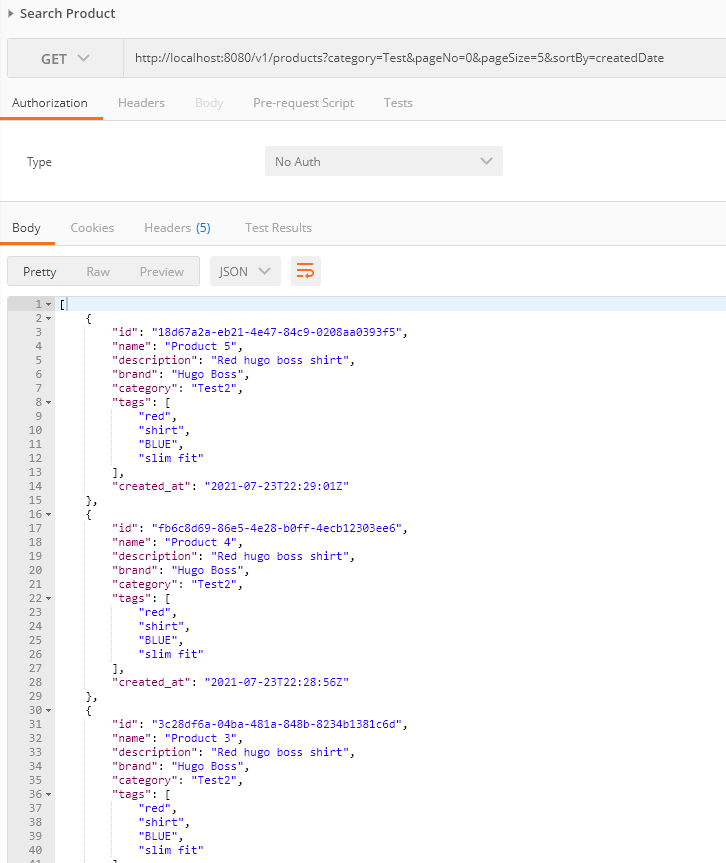
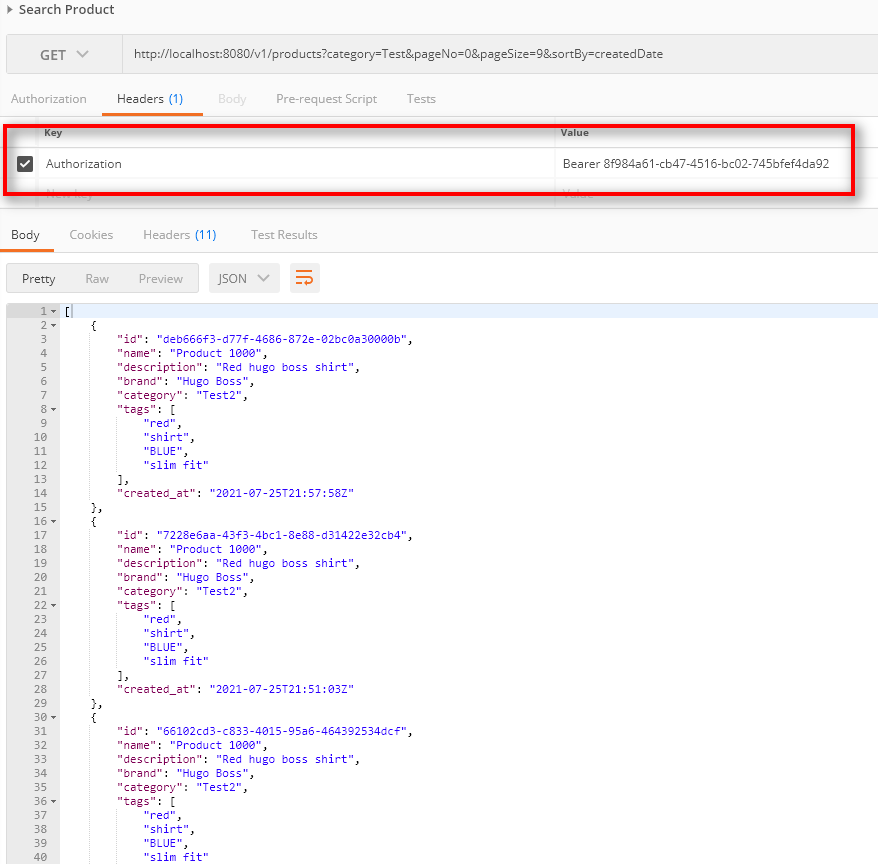
Add authentication/authorization Spring Security and OAuth2

diff --git a/simple-product-api/src/main/resources/static/index.html b/simple-product-api/src/main/resources/static/index.html
@@ -5,7 +5,15 @@
     <title>Centric Simple API</title>
 </head>
 <body>
+
 <h1>Centric Simple REST API</h1>
+
+<h2>Technologies</h2>
+- Java 8+, Spring Boot Rest API<br/>
+- Database: H2 In-Memory Database<br/>
+- Authentication/Authorization: Spring Security + OAuth2<br/>
+- API Doc: Swagger 2.0
+
 
 <h2>H2 Database</h2>
 URL: http://localhost:8080/h2-console/ <br/>
@@ -20,8 +28,35 @@ Password:<br/>
 <strong>Linux</strong>: ./mvnw spring-boot:run
 
 
+<h2>OAuth2 Authentication/Authorization diagram</h2>
+<img src="images/oauth2.JPG" width="800"/><br/>
+
+<h2>Generate OAuth2 Access-Token</h2>
+<strong>Step 1:</strong><br/>
+URL: ://localhost:8080/oauth/token<br/>
+Authentication: Basic Auth<br/>
+Username: hantruong<br/>
+Password: password<br/>
+
+<img src="images/generate1.png" width="800"/><br/>
+<strong>Step 2:</strong> <br/>
+Body:<br/>
+username: hantruong</br>
+password: 123456<br/>
+grant_type: password<br/>
+<img src="images/generate2.png" width="800"/><br/>
+
+Access_token is generated as above and we will use this access_token to authorize the API Request.
 <h2>Add New Product</h2>
-POST - http://localhost:8080/v1/products?lang=fr
+
+
+<img src="images/add0.png" width="800"/><br/>
+<img src="images/add.png" width="800"/><br/>
+
+POST - http://localhost:8080/v1/products?lang=fr <br/>
+Authorization: Bearer + access_token
+
+
 <h3>Request Body</h3>
 <pre><code>
 {
@@ -54,7 +89,7 @@ POST - http://localhost:8080/v1/products?lang=fr
     "created_at": "2021-07-23T22:14:57Z"
 }
 </code></pre>
-<img src="images/add.png" width="800"/>
+
 
 <h2>Search Product by Category Name</h2>
 GET - http://localhost:8080/v1/products?category=Test&pageNo=0&pageSize=5&sortBy=createdDate&lang=en
@@ -156,5 +191,6 @@ GET - http://localhost:8080/v1/products?category=Test&pageNo=0&pageSize=5&sortBy
 
     <h1>Author</h1>
     <strong>Han Truong</strong> - <a href="https://www.hantruong.us" target="_blank">https://www.hantruong.us</a>
+
 </body>
 </html>

diff --git a/simple-product-api/src/main/java/com/centricsoftware/simpleproductapi/oauth2/AuthorizationServerConfiguration.java b/simple-product-api/src/main/java/com/centricsoftware/simpleproductapi/oauth2/AuthorizationServerConfiguration.java
@@ -1,0 +1,64 @@
+package com.centricsoftware.simpleproductapi.oauth2;
+
+import org.springframework.beans.factory.annotation.Autowired;
+import org.springframework.beans.factory.annotation.Value;
+import org.springframework.context.annotation.Configuration;
+import org.springframework.security.authentication.AuthenticationManager;
+import org.springframework.security.crypto.bcrypt.BCryptPasswordEncoder;
+import org.springframework.security.oauth2.config.annotation.configurers.ClientDetailsServiceConfigurer;
+import org.springframework.security.oauth2.config.annotation.web.configuration.AuthorizationServerConfigurerAdapter;
+import org.springframework.security.oauth2.config.annotation.web.configuration.EnableAuthorizationServer;
+import org.springframework.security.oauth2.config.annotation.web.configurers.AuthorizationServerEndpointsConfigurer;
+import org.springframework.security.oauth2.provider.token.TokenStore;
+
+/**
+ * @author hantruong
+ */
+@Configuration
+@EnableAuthorizationServer
+public class AuthorizationServerConfiguration extends AuthorizationServerConfigurerAdapter {
+
+    static final String AUTHORIZATION_CODE = "authorization_code";
+    static final String REFRESH_TOKEN = "refresh_token";
+    static final String IMPLICIT = "implicit";
+    static final String SCOPE_READ = "read";
+    static final String SCOPE_WRITE = "write";
+    static final String TRUST = "trust";
+    static final int ACCESS_TOKEN_VALIDITY_SECONDS = 8 * 60 * 60;
+    static final int REFRESH_TOKEN_VALIDITY_SECONDS = 8 * 60 * 60;
+
+    @Value("${server.client.oauth.client.id}")
+    private String clientId;
+    @Value("${server.client.oauth.client.secret}")
+    private String clientSecret;
+    @Value("${server.client.oauth.grant.password.type}")
+    private String grantTypePassword;
+
+    @Autowired
+    private TokenStore tokenStore;
+
+    @Autowired
+    private AuthenticationManager authenticationManager;
+
+    @Autowired
+    private BCryptPasswordEncoder passwordEncoder;
+
+    @Override
+    public void configure(ClientDetailsServiceConfigurer configurer) throws Exception {
+
+        configurer
+                .inMemory()
+                .withClient(clientId)
+                .secret(passwordEncoder.encode(clientSecret))
+                .authorizedGrantTypes(grantTypePassword, AUTHORIZATION_CODE, REFRESH_TOKEN, IMPLICIT)
+                .scopes(SCOPE_READ, SCOPE_WRITE, TRUST)
+                .accessTokenValiditySeconds(ACCESS_TOKEN_VALIDITY_SECONDS).
+                refreshTokenValiditySeconds(REFRESH_TOKEN_VALIDITY_SECONDS);
+    }
+
+    @Override
+    public void configure(AuthorizationServerEndpointsConfigurer endpoints) throws Exception {
+        endpoints.tokenStore(tokenStore)
+                .authenticationManager(authenticationManager);
+    }
+}

diff --git a/simple-product-api/src/main/java/com/centricsoftware/simpleproductapi/oauth2/SecurityConfiguration.java b/simple-product-api/src/main/java/com/centricsoftware/simpleproductapi/oauth2/SecurityConfiguration.java
@@ -1,0 +1,58 @@
+package com.centricsoftware.simpleproductapi.oauth2;
+
+import org.springframework.beans.factory.annotation.Autowired;
+import org.springframework.beans.factory.annotation.Value;
+import org.springframework.context.annotation.Bean;
+import org.springframework.context.annotation.Configuration;
+import org.springframework.security.authentication.AuthenticationManager;
+import org.springframework.security.config.annotation.authentication.builders.AuthenticationManagerBuilder;
+import org.springframework.security.config.annotation.method.configuration.EnableGlobalMethodSecurity;
+import org.springframework.security.config.annotation.web.configuration.EnableWebSecurity;
+import org.springframework.security.config.annotation.web.configuration.WebSecurityConfigurerAdapter;
+import org.springframework.security.crypto.bcrypt.BCryptPasswordEncoder;
+import org.springframework.security.oauth2.provider.token.TokenStore;
+import org.springframework.security.oauth2.provider.token.store.InMemoryTokenStore;
+
+/**
+ * @author hantruong
+ */
+@Configuration
+@EnableWebSecurity
+@EnableGlobalMethodSecurity(prePostEnabled = true)
+public class SecurityConfiguration extends WebSecurityConfigurerAdapter {
+
+    @Value("${user.oauth.user.username}")
+    private String username;
+
+    @Value("${user.oauth.user.password}")
+    private String password;
+
+    public static void main(String[] args) {
+        BCryptPasswordEncoder passwordEncoder = new BCryptPasswordEncoder();
+        String encodedPassword = passwordEncoder.encode("123456");
+
+        System.out.println(encodedPassword);
+    }
+
+    @Override
+    @Bean
+    public AuthenticationManager authenticationManagerBean() throws Exception {
+        return super.authenticationManagerBean();
+    }
+
+    @Autowired
+    public void globalUserDetails(AuthenticationManagerBuilder auth) throws Exception {
+        auth.inMemoryAuthentication().passwordEncoder(passwordEncoder())
+                .withUser(username).password(passwordEncoder().encode(password)).roles("ADMIN").and().passwordEncoder(passwordEncoder());
+    }
+
+    @Bean
+    public TokenStore tokenStore() {
+        return new InMemoryTokenStore();
+    }
+
+    @Bean
+    public BCryptPasswordEncoder passwordEncoder() {
+        return new BCryptPasswordEncoder();
+    }
+}

diff --git a/simple-product-api/src/main/java/com/centricsoftware/simpleproductapi/oauth2/ResourceServerConfiguration.java b/simple-product-api/src/main/java/com/centricsoftware/simpleproductapi/oauth2/ResourceServerConfiguration.java
@@ -1,0 +1,31 @@
+package com.centricsoftware.simpleproductapi.oauth2;
+import org.springframework.context.annotation.Configuration;
+import org.springframework.security.config.annotation.web.builders.HttpSecurity;
+import org.springframework.security.oauth2.config.annotation.web.configuration.EnableResourceServer;
+import org.springframework.security.oauth2.config.annotation.web.configuration.ResourceServerConfigurerAdapter;
+import org.springframework.security.oauth2.config.annotation.web.configurers.ResourceServerSecurityConfigurer;
+import org.springframework.security.oauth2.provider.error.OAuth2AccessDeniedHandler;
+
+/**
+ * @author hantruong
+ */
+@Configuration
+@EnableResourceServer
+public class ResourceServerConfiguration extends ResourceServerConfigurerAdapter {
+
+    private static final String RESOURCE_ID = "resource_id";
+
+    @Override
+    public void configure(ResourceServerSecurityConfigurer resources) {
+        resources.resourceId(RESOURCE_ID).stateless(false);
+    }
+
+    @Override
+    public void configure(HttpSecurity http) throws Exception {
+        http.
+                anonymous().disable()
+                .authorizeRequests()
+                .antMatchers("/v1/products/**").access("hasRole('ADMIN')")
+                .and().exceptionHandling().accessDeniedHandler(new OAuth2AccessDeniedHandler());
+    }
+}

diff --git a/README.md b/README.md
@@ -1,5 +1,12 @@
 <h1>Centric Simple REST API</h1>
 
+<h2>Technologies</h2>
+- Java 8+, Spring Boot Rest API<br/>
+- Database: H2 In-Memory Database<br/>
+- Authentication/Authorization: Spring Security + OAuth2<br/>
+- API Doc: Swagger 2.0
+
+
 <h2>H2 Database</h2>
 URL: http://localhost:8080/h2-console/ <br/>
 JDBC URL: jdbc:h2:mem:centric<br/>
@@ -13,8 +20,36 @@ Password:<br/>
 <strong>Linux</strong>: ./mvnw spring-boot:run
 
 
+<h2>OAuth2 Authentication/Authorization diagram</h2>
+<img src="simple-product-api/src/main/resources/static/images/oauth2.JPG" width="800"/><br/>
+
+<h2>Generate OAuth2 Access-Token</h2>
+<strong>Step 1:</strong><br/>
+URL: ://localhost:8080/oauth/token<br/>
+Authentication: Basic Auth<br/>
+Username: hantruong<br/>
+Password: password<br/>
+ 
+<img src="simple-product-api/src/main/resources/static/images/generate1.png" width="800"/><br/>
+<strong>Step 2:</strong> <br/>
+Body:<br/>
+username: hantruong</br>
+password: 123456<br/>
+grant_type: password<br/>
+<img src="simple-product-api/src/main/resources/static/images/generate2.png" width="800"/><br/>
+
+Access_token is generated as above and we will use this access_token to authorize the API Request.
 <h2>Add New Product</h2>
-POST - http://localhost:8080/v1/products?lang=fr
+
+
+
+<img src="simple-product-api/src/main/resources/static/images/add0.png" width="800"/><br/>
+<img src="simple-product-api/src/main/resources/static/images/add.png" width="800"/><br/>
+
+POST - http://localhost:8080/v1/products?lang=fr <br/>
+Authorization: Bearer + access_token
+
+
 <h3>Request Body</h3>
 <pre><code>
 {
@@ -47,7 +82,7 @@ POST - http://localhost:8080/v1/products?lang=fr
     "created_at": "2021-07-23T22:14:57Z"
 }
 </code></pre>
-<img src="simple-product-api/src/main/resources/static/images/add.png" width="800"/>
+
 
 <h2>Search Product by Category Name</h2>
 GET - http://localhost:8080/v1/products?category=Test&pageNo=0&pageSize=5&sortBy=createdDate&lang=en
